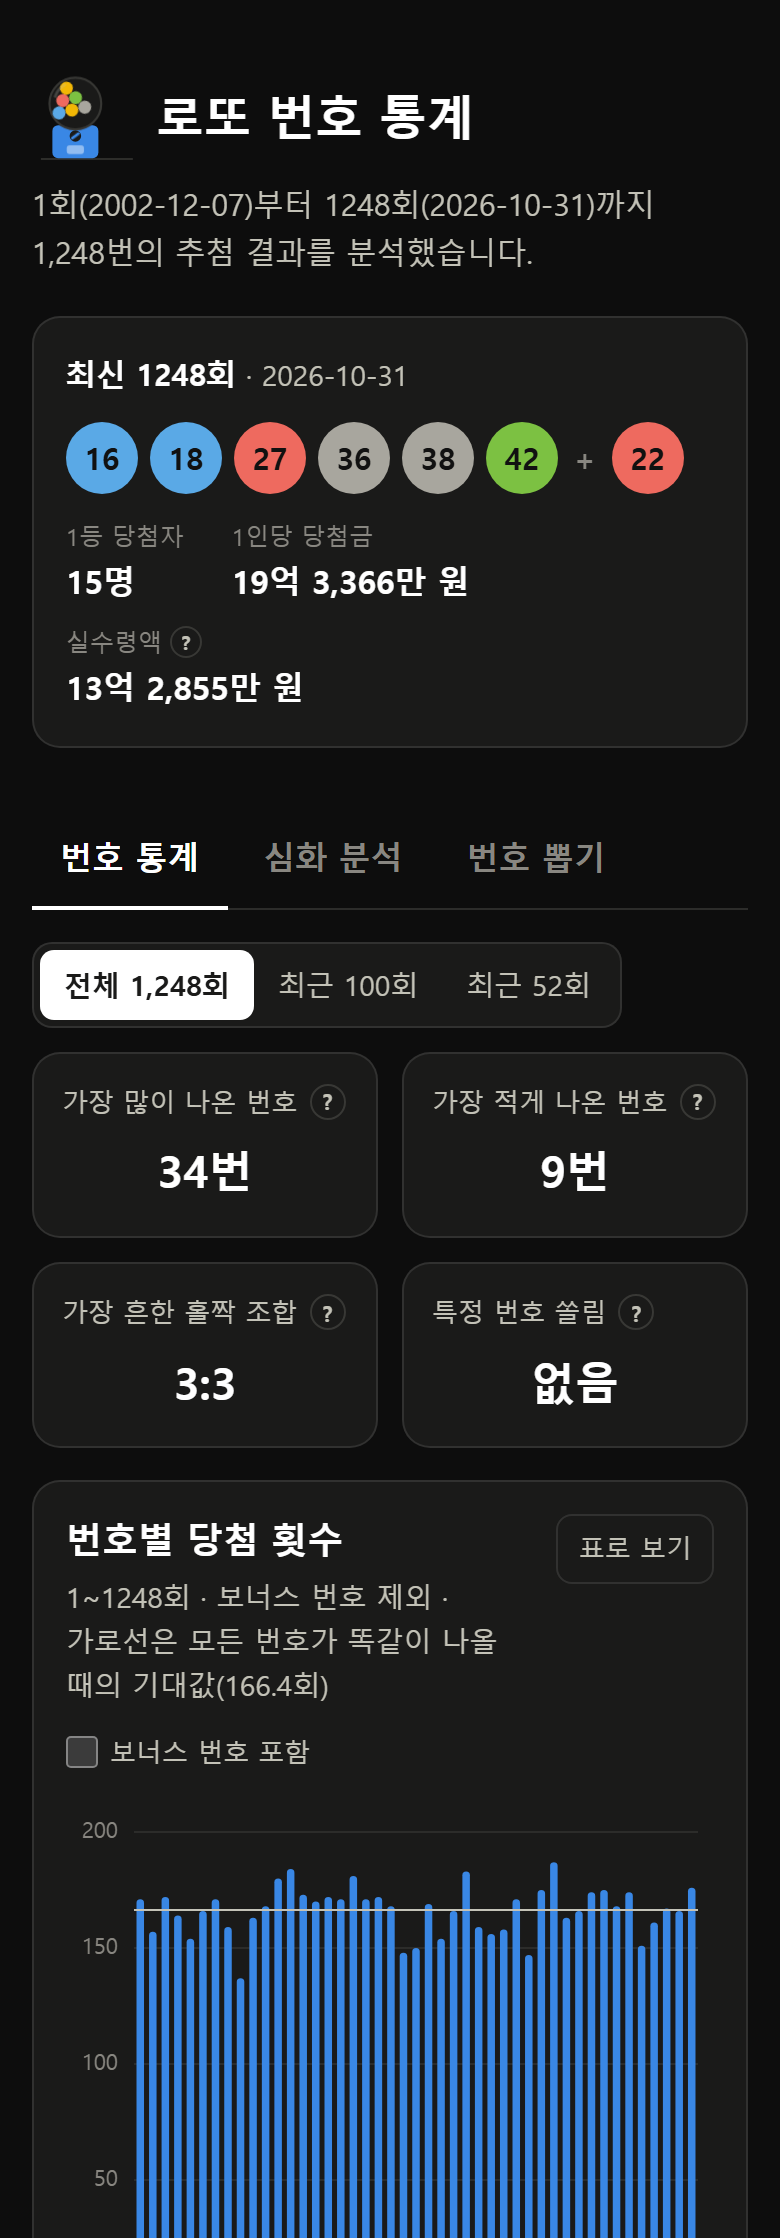
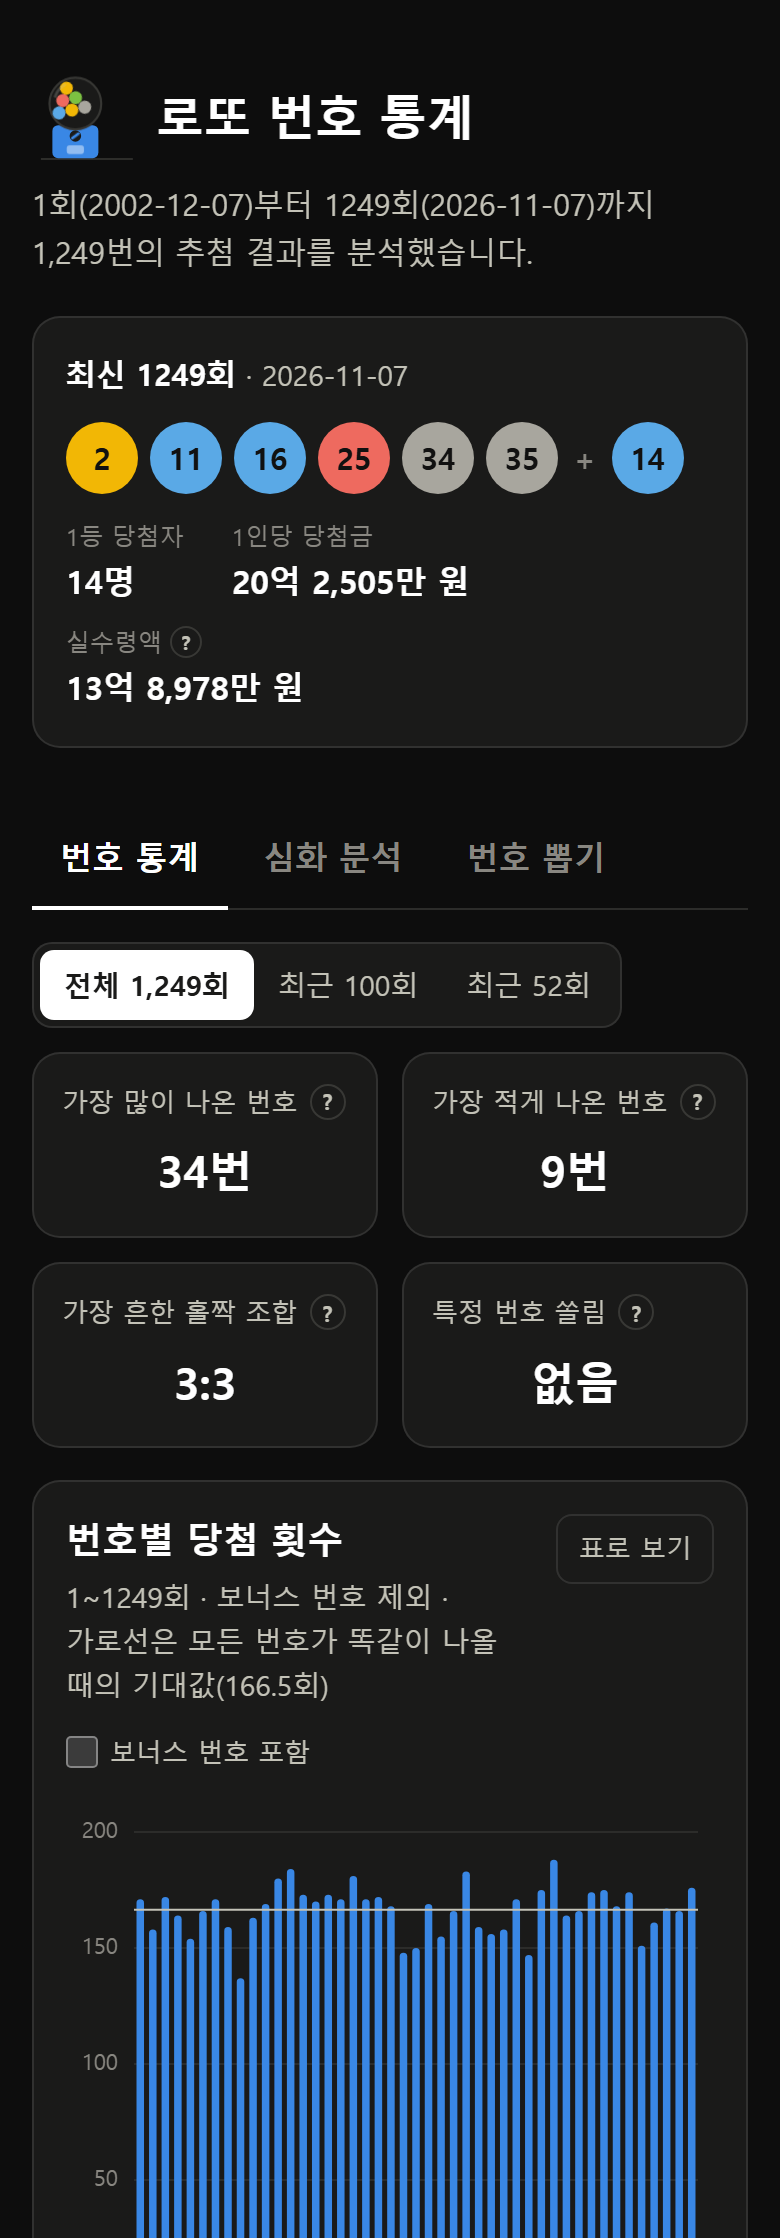
README를 1249회 기준으로 갱신
- 분석 결과 숫자 9줄 갱신 (가장 많이 나온 번호 34번 188회, 카이제곱 29.3 등)
- 스크린샷 11장을 1249회 기준으로 다시 찍음

diff --git a/README.md b/README.md
@@ -11,7 +11,7 @@
   <img src="screenshots/page-light.png" alt="웹페이지 번호 통계 탭: 최신 회차 당첨번호, 요약 지표, 번호별 당첨 횟수 차트">
 </picture>
 
-<sub>화면은 1248회 기준입니다. 최신 결과는 웹페이지에서 볼 수 있습니다.</sub>
+<sub>화면은 1249회 기준입니다. 최신 결과는 웹페이지에서 볼 수 있습니다.</sub>
 
 ## 웹페이지 기능
 
@@ -84,18 +84,18 @@
   </tr>
 </table>
 
-## 분석 결과 (1~1248회 기준)
+## 분석 결과 (1~1249회 기준)
 
 | 항목 | 결과 |
 |---|---|
-| 가장 많이 나온 번호 | 34번 (187회) |
+| 가장 많이 나온 번호 | 34번 (188회) |
 | 가장 적게 나온 번호 | 9번 (137회) |
-| 번호당 기대값 | 166.4회 |
-| 카이제곱 검정 | 29.2 (자유도 44, 유의수준 5%의 기준값 60.48보다 작음) |
+| 번호당 기대값 | 166.5회 |
+| 카이제곱 검정 | 29.3 (자유도 44, 유의수준 5%의 기준값 60.48보다 작음) |
 | 가장 흔한 홀짝 조합 | 3:3 (33.2%, 이론 확률 33.5%) |
 | 가장 많이 함께 나온 번호 쌍 | 11·21 (34회, 한 쌍의 기대값 18.9회) |
 
-가장 많이 나온 번호와 가장 적게 나온 번호는 50회 차이가 나서 커 보이지만, 카이제곱 검정으로 보면 무작위 추첨에서 자연스럽게 생기는 정도의 차이입니다.
+가장 많이 나온 번호와 가장 적게 나온 번호는 51회 차이가 나서 커 보이지만, 카이제곱 검정으로 보면 무작위 추첨에서 자연스럽게 생기는 정도의 차이입니다.
 
 번호 패턴도 실제 비율이 이론 확률과 거의 같습니다. 차트의 모든 구간을 비교해도 가장 큰 차이가 2.2%p(합계 141~160)입니다.
 
@@ -103,10 +103,10 @@
 |---|---|---|
 | 번호 6개 합계의 평균 | 138.3 | 138 |
 | 연속 번호가 하나라도 있는 회차 | 51.8% | 52.9% |
-| 가장 흔한 고저 조합 (낮은 번호 3개·높은 번호 3개) | 32.9% | 33.5% |
+| 가장 흔한 고저 조합 (낮은 번호 3개·높은 번호 3개) | 33.0% | 33.5% |
 | 끝자리가 같은 번호가 있는 회차 | 78.1% | 79.0% |
-| 직전 회차 번호가 1개 이상 다시 나온 회차 (이월수) | 61.4% | 59.9% |
-| 직전 번호의 ±1이 1개 이상 나온 회차 (이웃수) | 77.5% | 78.7% |
+| 직전 회차 번호가 1개 이상 다시 나온 회차 (이월수) | 61.5% | 59.9% |
+| 직전 번호의 ±1이 1개 이상 나온 회차 (이웃수) | 77.6% | 78.7% |
 
 이론 확률은 공식으로 계산하고, 가능한 조합 8,145,060개를 모두 세어 보거나 모의실험을 돌려 맞는지 확인했습니다.
 매 회차 추첨은 이전 결과와 상관없이 독립적이므로, 과거 출현 빈도나 패턴으로 다음 당첨번호를 예측할 수는 없습니다.
